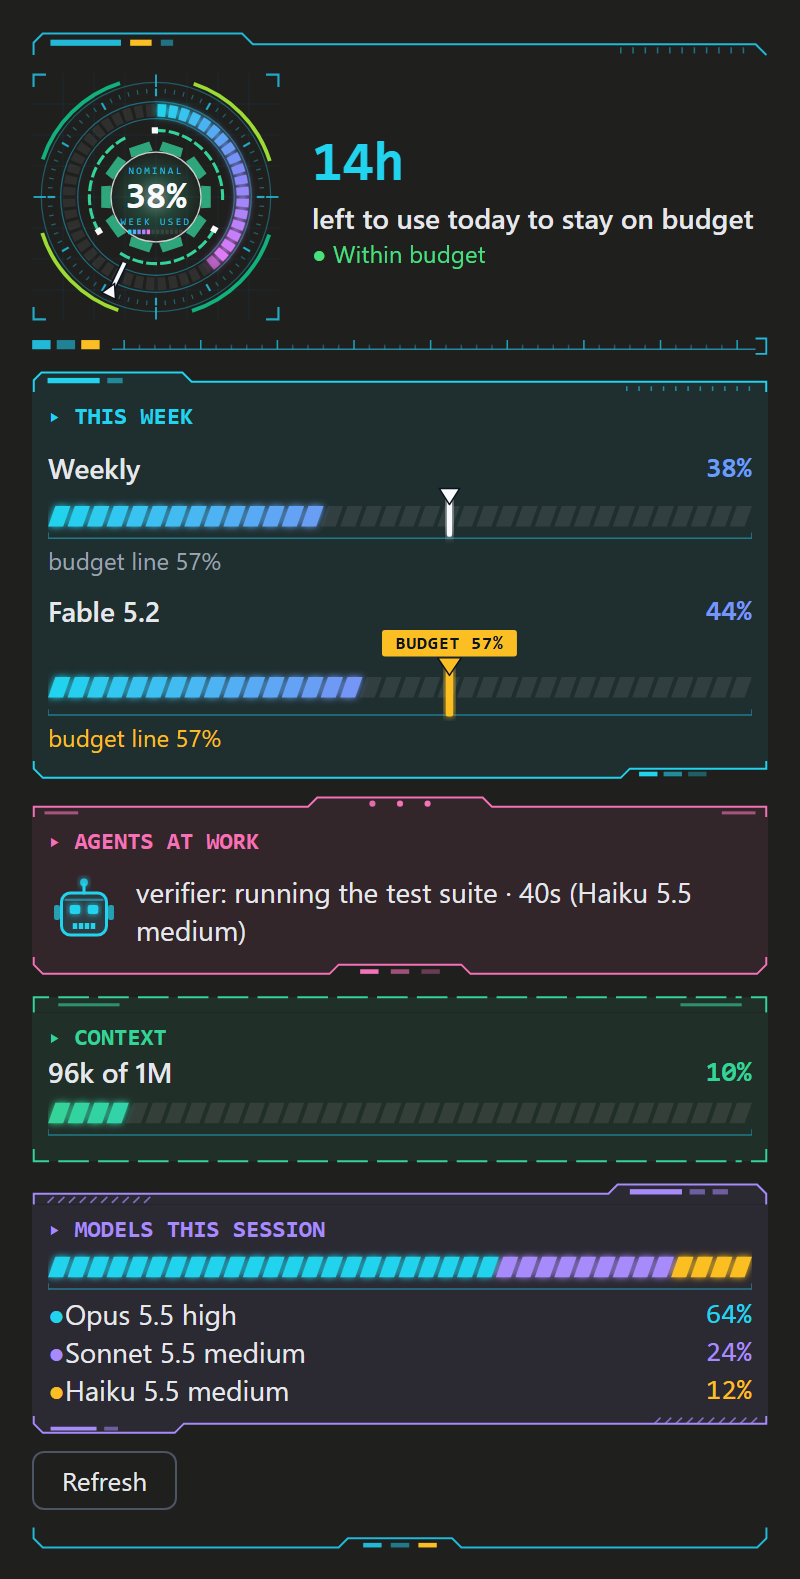
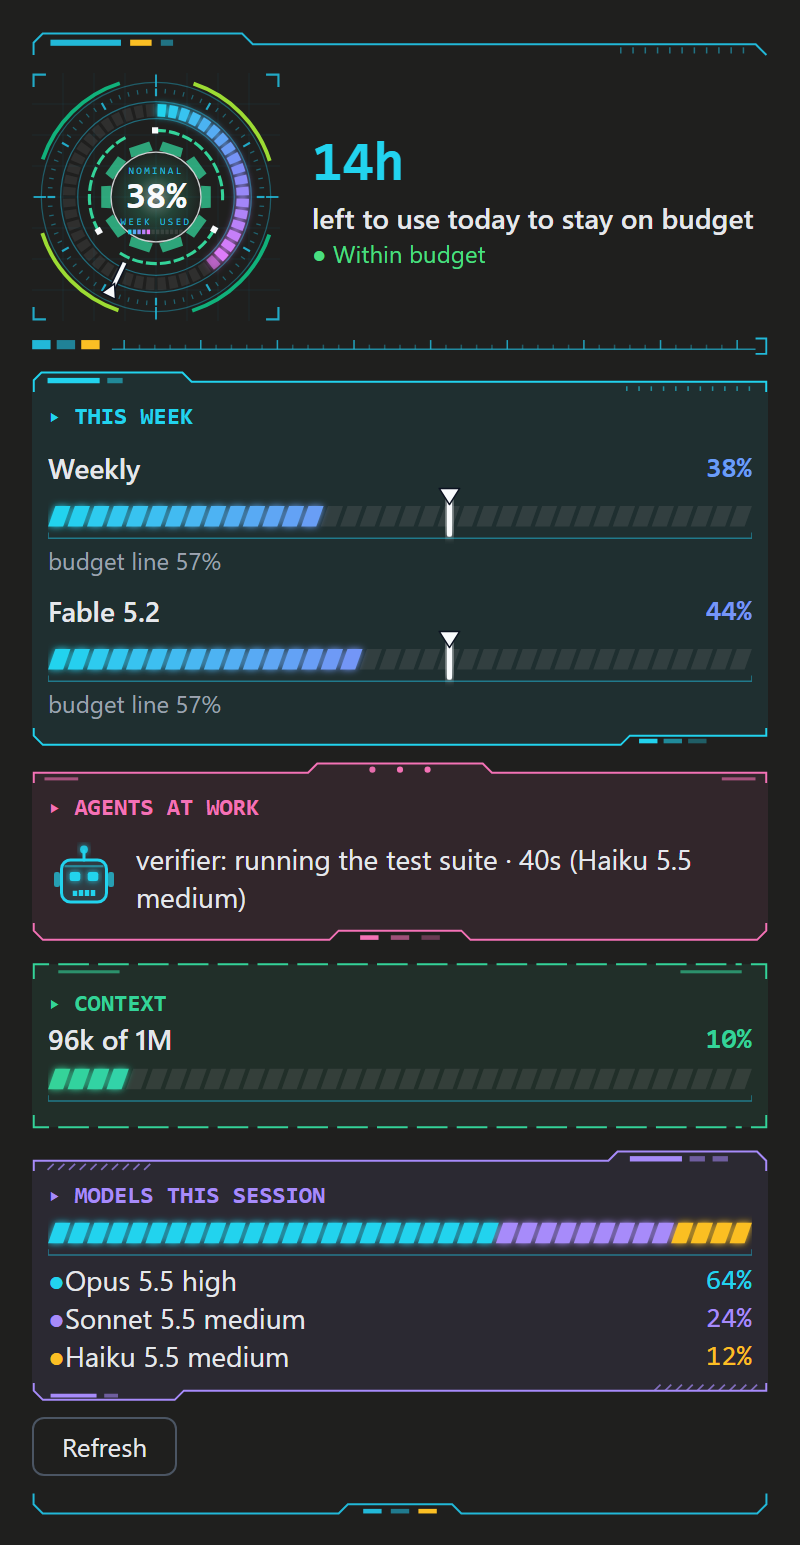
Fable's budget line drawn like the week's while under it; pacing 0.9.36
Under its budget line a per-model meter's bar is the weekly bar's own: a
white tick with an arrow, no tag, plain words below. Past the line the
red line, the OVER tag and the red cells stay. The README pictures are
drawn again.

diff --git a/pacing/hooks/readings.test.ts b/pacing/hooks/readings.test.ts
@@ -3723,8 +3723,9 @@ test('the pane says the budget as time left today, never in tokens or dollars; p
   expect(held.meters[1]).toEqual({ label: 'Fable 5.2', pct: 83, line: 73.3, loud: true, over: true, note: '10 points over its budget line 73%: held, kept for hard tasks' })
   const under = paneModel({ j: { ...base, level: 'ahead', all: 55, line: 73.3, premium: 60, premiumLabel: 'Fable 5.2' } })
   expect(under.meters[1]).toEqual({ label: 'Fable 5.2', pct: 60, line: 73.3, loud: true, over: false, note: 'budget line 73%' })
-  // drawn: a tag above the line, BUDGET under it, OVER past it
-  expect(barSvg([{ pct: 60, color: '#22d3ee' }], 73.3, 480, 34, true)).toContain('>BUDGET 73%<')
+  // drawn: the week's tick under the line, a tag saying OVER past it
+  // under the line: drawn as the weekly bar is, no tag (the user's word)
+  expect(barSvg([{ pct: 60, color: '#22d3ee' }], 73.3, 480, 34, true)).toBe(barSvg([{ pct: 60, color: '#22d3ee' }], 73.3, 480, 34))
   const loud = barSvg([{ pct: 83, color: '#fbbf24' }], 73.3, 480, 34, true)
   expect(loud).toContain('>OVER +10<')
   // still, not pulsing (the user's word)

diff --git a/docs/auto-readings.md b/docs/auto-readings.md
@@ -1230,3 +1230,12 @@ on show the toasts that an agent or a side session is done stay away, as
 those that one started or still runs already did: the pane lists them,
 and an agent's answer comes in the chat. With the pane hidden they come
 as before.
+
+## Fable's line like the week's while under it (0.9.36)
+
+The user's words, in turn: Fable's budget line need not be orange while
+under it, grey or white; then, make it like the weekly one. So `barSvg`
+draws a `loud` bar loudly only past its line: under it the bar is the
+week's own, a white tick with an arrow and no tag, and the words under it
+are plain like the week's. Past the line nothing changed: the thick red
+line, the `OVER +N` tag, the red cells and band, the red words.
